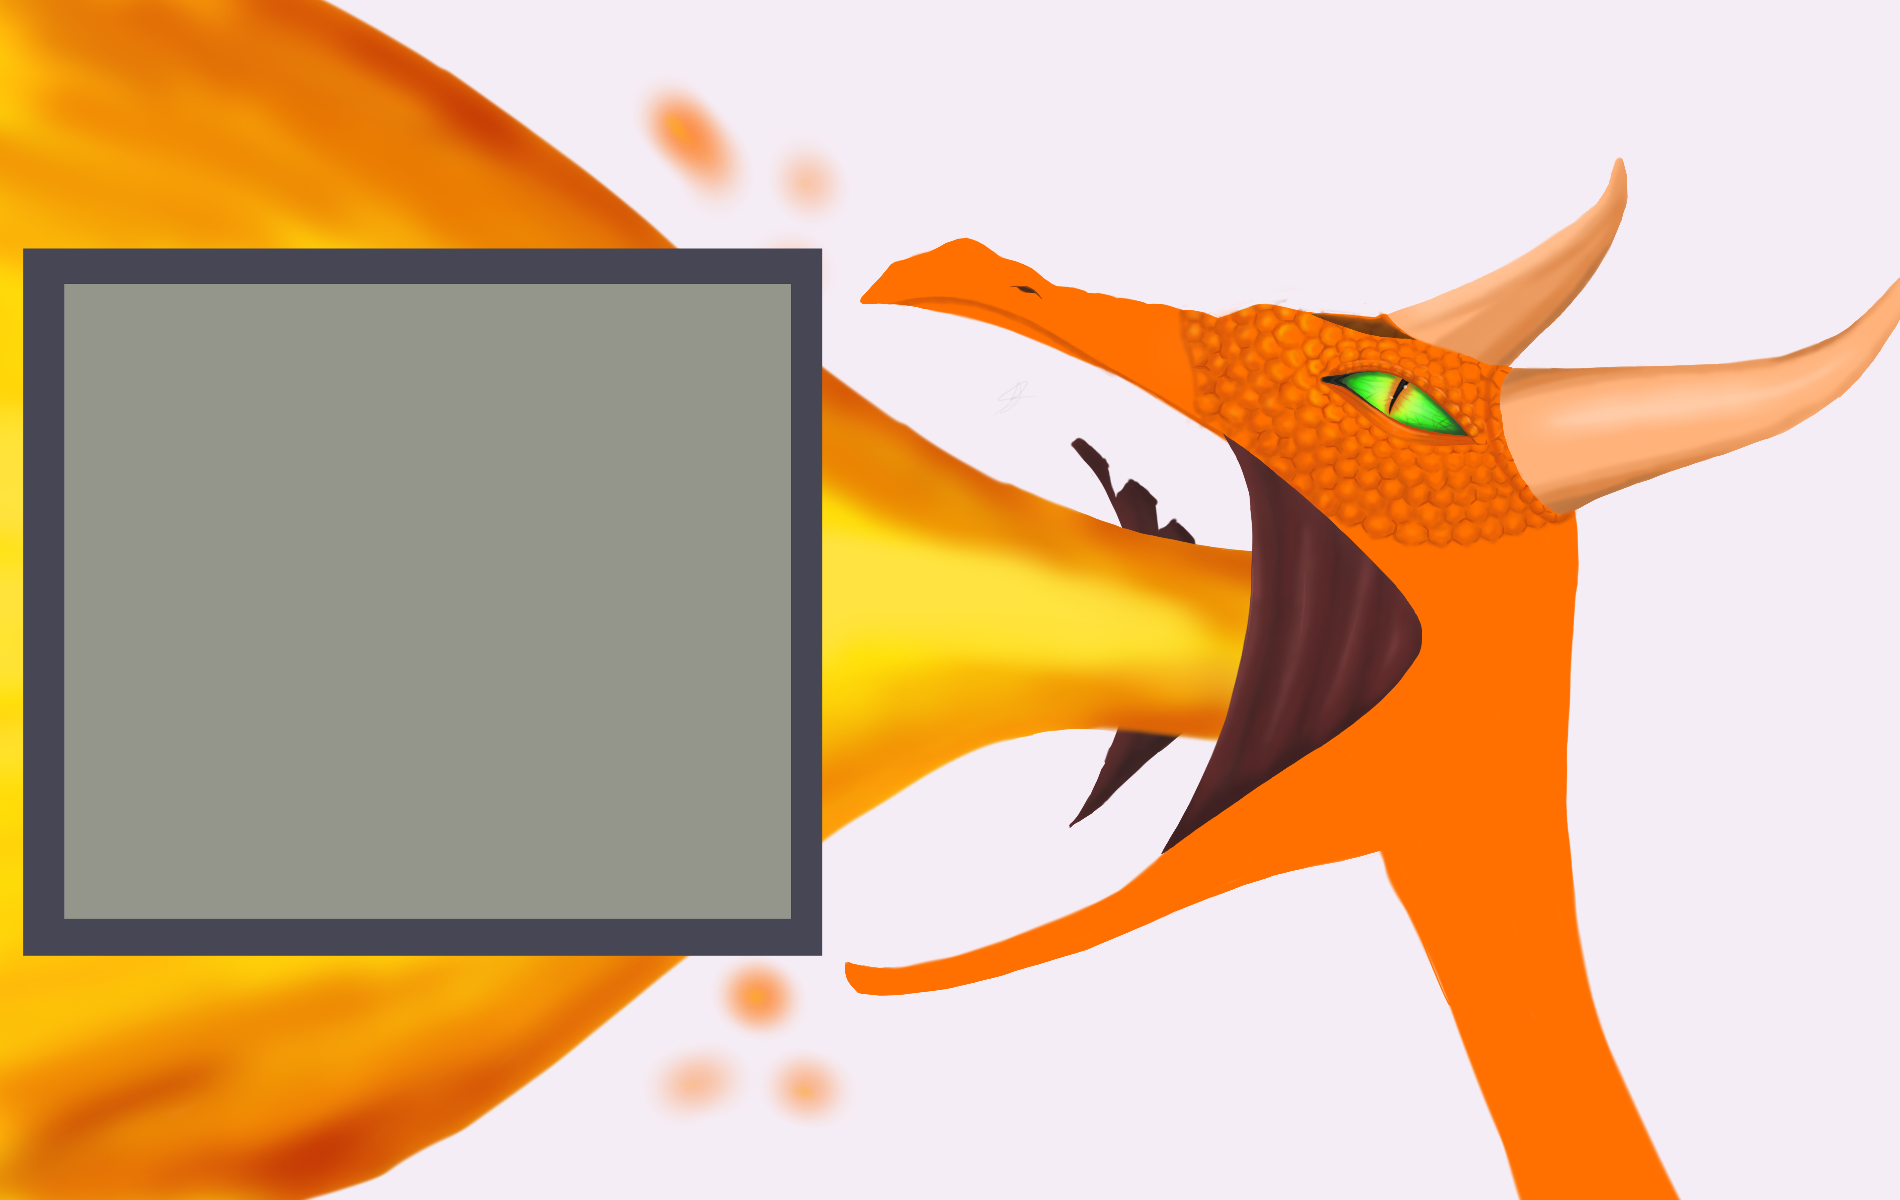
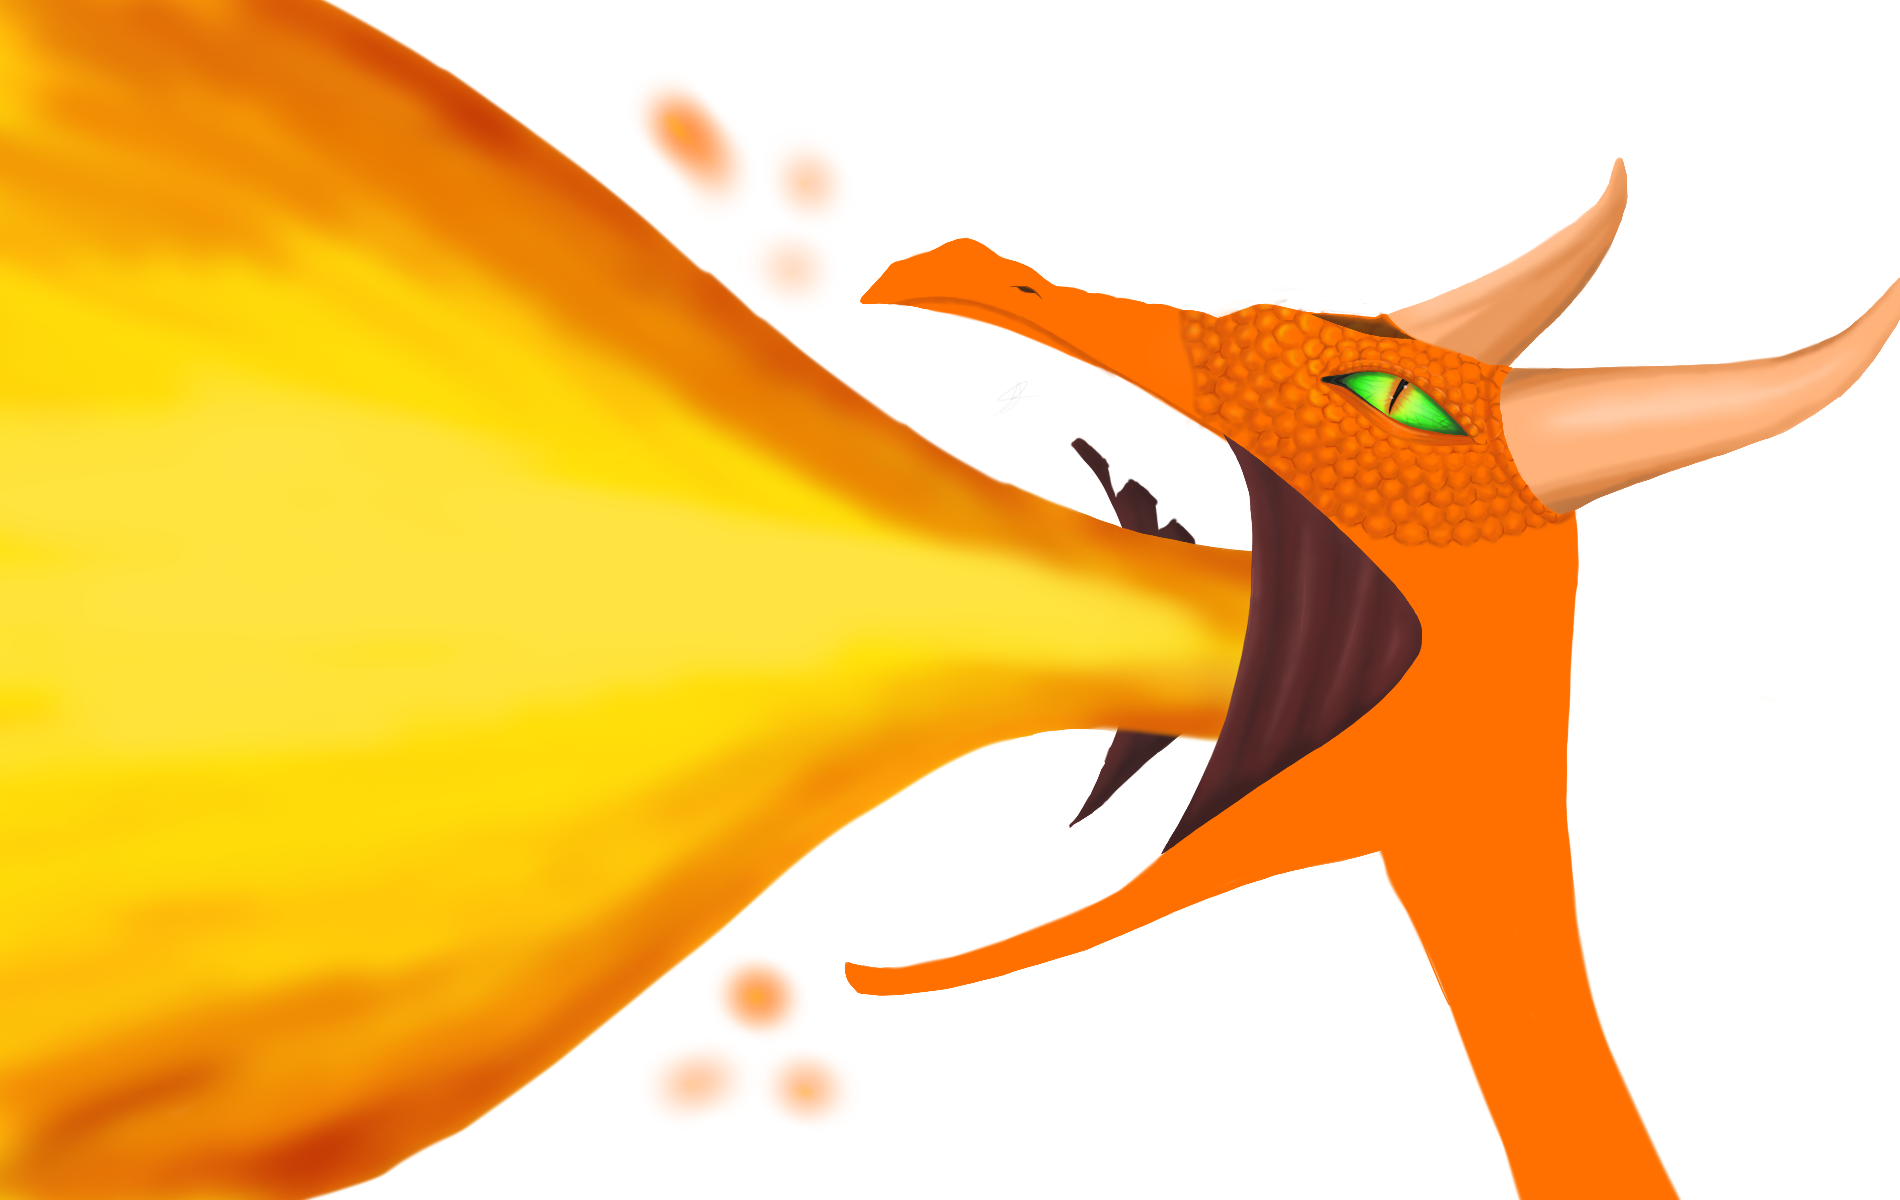
Work in progess

Changed region(s): [[0.0, 0.185, 0.4347, 0.8017]]

diff --git a/LESS/index.less b/LESS/index.less
@@ -1,7 +1,73 @@
 html{
+        box-sizing: border-box;
+        font-size: 62.5%;
+header{
+    nav{
+        display: flex;
+        background-color: #94958b;
+        text-decoration: none;
+        margin-top: auto;
+        ul{
+            list-style-type: none;
+            display: flex;
+            li{
+                list-style-type: none;
+                display: flex;
+                a{
+                    text-decoration: none;
+                    color: #464655;
+                    font-size: 3rem;
+                    display: flex;
+                    padding: 0  0 ;
+                }
+            }
+        }
+    }
+    }
 body {
     background-image: url('../images/Dragon.png');
-    background-size: cover;
+    background-size: 100%;
     background-repeat: no-repeat;
+    background-color: #b7b6c1;
+    .container{
+        width: 1000px;
+    h1{
+        color: #464655;
+        font-size: 5rem;
+        width: 700px;
+        text-align: center;
+            .TopHeader{
+             padding-top: 30px;
+        }
+}
+.feature{
+    display: flex;
+    position: relative;
+    margin-left: 125px;
+
+.explain{
+    display:flex;
+    position: absolute;
+    font-size: 3rem;
+    flex-wrap: wrap;
+    width: 350px;
+    padding: 30px;
+    color: black;
+}
+
+.btn{
+    display:flex;
+    position: absolute;
+    width: 190px;
+    font-size: 2rem;
+    background-color: #94958b;
+    text-align: center;
+    vertical-align: middle;
+    padding: 1%;
+    border-radius: 50%;
+    margin: 350px 0 0 110px;
+}
+}
+}
 }
 }

diff --git a/css/index.css b/css/index.css
@@ -1,5 +1,69 @@
+html {
+  box-sizing: border-box;
+  font-size: 62.5%;
+}
+html header nav {
+  display: flex;
+  background-color: #94958b;
+  text-decoration: none;
+  margin-top: auto;
+}
+html header nav ul {
+  list-style-type: none;
+  display: flex;
+}
+html header nav ul li {
+  list-style-type: none;
+  display: flex;
+}
+html header nav ul li a {
+  text-decoration: none;
+  color: #464655;
+  font-size: 3rem;
+  display: flex;
+  padding: 0  0 ;
+}
 html body {
   background-image: url('../images/Dragon.png');
-  background-size: cover;
+  background-size: 100%;
   background-repeat: no-repeat;
+  background-color: #b7b6c1;
+}
+html body .container {
+  width: 1000px;
+}
+html body .container h1 {
+  color: #464655;
+  font-size: 5rem;
+  width: 700px;
+  text-align: center;
+}
+html body .container h1 .TopHeader {
+  padding-top: 30px;
+}
+html body .container .feature {
+  display: flex;
+  position: relative;
+  margin-left: 125px;
+}
+html body .container .feature .explain {
+  display: flex;
+  position: absolute;
+  font-size: 3rem;
+  flex-wrap: wrap;
+  width: 350px;
+  padding: 30px;
+  color: black;
+}
+html body .container .feature .btn {
+  display: flex;
+  position: absolute;
+  width: 190px;
+  font-size: 2rem;
+  background-color: #94958b;
+  text-align: center;
+  vertical-align: middle;
+  padding: 1%;
+  border-radius: 50%;
+  margin: 350px 0 0 110px;
 }

diff --git a/index.html b/index.html
@@ -7,8 +7,29 @@
         <link rel="stylesheet" href="css/index.css">
 </head>
 <header>
+        <nav>
+                <ul>
+                <li><b><a href = "#">Home</a></b></li>
+                <li><b><a href = "#">About Us</a></b></li>
+                <li><b><a href = "#">Sign In</a></b></li>
+                </ul>
+        </nav>
+
+        </a>
+        </a></nav>
 </header>
 <body>
+        <div class = "container">
+        <h1 class = "TopHeader">You're Art is On Fire!</h1>
+        <h1>Featured -</h1>
+        <div class = "feature">
+                <img src = "images/feature.png" alt="Featured Art" style="width:48%;">
+                <div class = "explain">
+                        <b>This page is to celebrate the art of professionals who want to showcase their work on a more high-end platform. To see some of our most prominent pieces, click the button below.</b>
+                </div>
+                <div class = "btn">Click Here For Images</div>
+        </div>
+        </div>
 </body>
 <footer>
 </footer>
